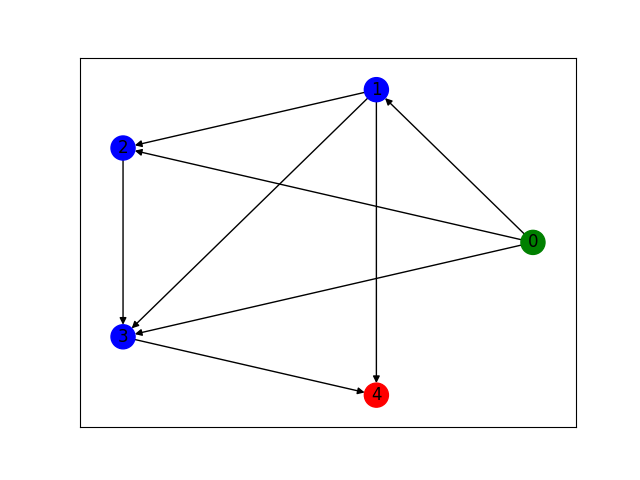
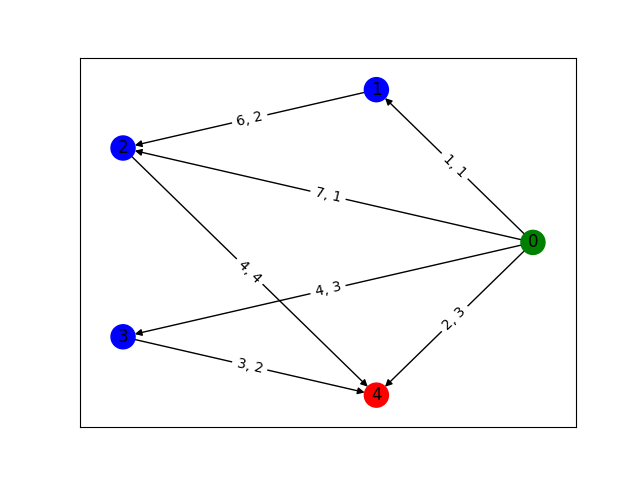
Added normally randomized weight cost tuples to WCGraph. Example in AbitraryGraphTest.

diff --git a/src/GraphModeling/tests/ArbitraryGraphTest.py b/src/GraphModeling/tests/ArbitraryGraphTest.py
@@ -5,26 +5,51 @@ from numpy import random as r
 from collections.abc import Sequence
 
 from ..models.Graph import Graph
+from ..models.WCGraph import WCGraph
 
 import networkx
 
 def main():
-    for i in range(1,11):
-        graph = Graph.get_arbitrary_graph(5)
+    print(WCGraph.get_random_weight_cost(5,5,3, std_cost=3))
+    for i in range(1,6):
+        graph = WCGraph.get_arbitrary_graph(5,5,3,std_weight=2)
         print(f"Paths of the graph {i}")
         print_paths(graph.get_simple_paths())
-        print(f"Nodes in the graph: {Graph.get_nodes(graph.edges)}")
-        graph.print_graph(picture_name = f"resources/ArbitraryGraphTestResults/arb5graph_{i}", suppress_text_output=True)
+        print(f"Nodes in the graph: {WCGraph.get_nodes(graph.edges)}")
+        # graph.print_graph()
+        graph.print_graph(picture_name = f"resources/ArbitraryGraphTestResults/arb5graph_{i}")
     
 
-def get_arbitrary_graph(n: int) -> Graph:
-    """Generates arbitrary WC graph with n nodes and no weights or costs
+def get_random_weight_cost(mean_weight: int, mean_cost: int, std_weight:int=1, std_cost:int=1):
+    """Generates a random cost-weight tuple based on input. Currently normal dist, but could test with other modes
+
+    Args:
+        mean_weight (int): mean weight in normal distribution
+        mean_cost (int): mean cost in normal distribution
+        std_weight (int, optional): standard deviation of weight. Defaults to 1.
+        std_cost (int, optional): standard deviation of cost. Defaults to 1.
+
+    Returns:
+        _type_: random weight-cost tuple integers
+    """    
+    #choose random cost and weight (normal)
+    random_weight = int(max(numpy.floor(r.normal(mean_weight,std_weight)),1))
+    random_cost = int(max(numpy.floor(r.normal(mean_cost,std_cost)),1))
+    
+    return (random_weight,random_cost)
+
+def get_arbitrary_graph(n: int, mean_weight: int, mean_cost: int, std_weight:int=1, std_cost:int=1) -> Graph:
+    """Generates arbitrary WC graph with n nodes with normally distributed weights and costs
 
     Args:
         n (int): number of nodes
+        mean_weight (int): mean weight
+        mean_cost (int): mean cost
+        std_weight (int): standard deviation of weight
+        std_cost (int): standard deviation of cost
 
     Returns:
-        Graph: arbitary WC graph with all (w,c) = (0,0)
+        Graph: arbitary WC graph with (w,c) normally distributed
     """
     graphDict = {}
     #Loop i range(0,n)
@@ -36,8 +61,7 @@ def get_arbitrary_graph(n: int) -> Graph:
         delta_o = r.choice([*range(i+1,n)], N_oe, replace=False) if i!=n-1 else [n]
         #For each j in delta_o[], add edge (i,j)
         for j in delta_o:
-            #TODO: Add weights and cost generation -> can only do to a WCGraph
-            graphDict[i,j] = (0,0)
+            graphDict[i,j] = get_random_weight_cost(mean_weight, mean_cost, std_weight=std_weight, std_cost=std_cost)
         #If no incoming nodes
         oneInNode = False
         for k in range(0,i):
@@ -48,10 +72,9 @@ def get_arbitrary_graph(n: int) -> Graph:
             #Choose node incoming n_in range(0,i-1)
             n_in = r.randint(0,i-1) if i>1 else 0
             #Add edge (n_in,i)
-            #TODO: Add weight and const
-            graphDict[n_in,i] = (0,0)
+            graphDict[n_in,i] = get_random_weight_cost(mean_weight, mean_cost, std_weight=std_weight, std_cost=std_cost)
         
-    graph = Graph(graphDict)
+    graph = WCGraph(graphDict)
     return graph
 
 def get_maximal_graph(n: int) -> dict:

diff --git a/src/GraphModeling/models/WCGraph.py b/src/GraphModeling/models/WCGraph.py
@@ -1,4 +1,5 @@
 import numpy
+from numpy import random as r
 
 from typing import Dict, List, Tuple
 
@@ -33,7 +34,65 @@ class WCGraph(Graph):
         self._generate_weight_cost_matricies()
 
         pass
+    def get_random_weight_cost(self, mean_weight: int, mean_cost: int, std_weight:int=1, std_cost:int=1) -> tuple[int, int]:
+        """Generates a random cost-weight tuple based on input. Currently normal dist, but could test with other modes
 
+        Args:
+            mean_weight (int): mean weight in normal distribution
+            mean_cost (int): mean cost in normal distribution
+            std_weight (int, optional): standard deviation of weight. Defaults to 1.
+            std_cost (int, optional): standard deviation of cost. Defaults to 1.
+
+        Returns:
+            _type_: random weight-cost tuple integers
+        """    
+        #choose random cost and weight (normal)
+        random_weight = int(max(numpy.floor(r.normal(mean_weight,std_weight)),1))
+        random_cost = int(max(numpy.floor(r.normal(mean_cost,std_cost)),1))
+        
+        return (random_weight,random_cost)
+    
+    def get_arbitrary_graph(n: int, mean_weight: int, mean_cost: int, std_weight:int=1, std_cost:int=1) -> Graph:
+        """Generates arbitrary WC graph with n nodes with normally distributed weights and costs
+
+        Args:
+            n (int): number of nodes
+            mean_weight (int): mean weight
+            mean_cost (int): mean cost
+            std_weight (int): standard deviation of weight
+            std_cost (int): standard deviation of cost
+
+        Returns:
+            Graph: arbitary WC graph with (w,c) normally distributed
+        """
+        graphDict = {}
+        graph = WCGraph(graphDict)
+        #Loop i range(0,n)
+        for i in range(0,n-1):
+            #Random Noe range(i,n) # of outgoing edges
+            N_oe = r.randint(1,n-i) if n-i>1 else 1
+            #print("i :", i, "\tN_oe: ", N_oe)
+            #Choose Noe unique nodes range(1,n) delta_o[]
+            delta_o = r.choice([*range(i+1,n)], N_oe, replace=False) if i!=n-1 else [n]
+            #For each j in delta_o[], add edge (i,j)
+            for j in delta_o:
+                #TODO: This currently returns an error - "'int' object has no attribute 'get_random_weight_cost'"
+                graphDict[i,j] = graph.get_random_weight_cost(mean_weight, mean_cost, std_weight=std_weight, std_cost=std_cost)
+            #If no incoming nodes
+            oneInNode = False
+            for k in range(0,i):
+                if((k,i) in graphDict):
+                    oneInNode = True
+                    break
+            if not oneInNode and i != 0:
+                #Choose node incoming n_in range(0,i-1)
+                n_in = r.randint(0,i-1) if i>1 else 0
+                #Add edge (n_in,i)
+                graphDict[n_in,i] = graph.get_random_weight_cost(mean_weight, mean_cost, std_weight=std_weight, std_cost=std_cost)
+            
+        graph = WCGraph(graphDict)
+        return graph
+    
     def find_wc_paths(self, weight: int, source_node: int = 0, destination_node: int | None = None) -> List[List[int]]:
         """Creates a list of each path in the graph that follows the weight constraint.
 

diff --git a/src/GraphModeling/models/Graph.py b/src/GraphModeling/models/Graph.py
@@ -49,7 +49,6 @@ class Graph:
             print("Edges of Graph:")
             print(f"|    {self.networkx_graph.edges()}")
         
-        #TODO: Fix positioning bug - nodes should be in counterclockwise order (should also fix color map bug)
         #TODO: Alter size of nodes and lines with size of graph
         networkx.draw_networkx(self.networkx_graph, 
             pos = networkx.circular_layout(self.networkx_graph), node_color = self.get_color_map(len(self.networkx_graph)))
